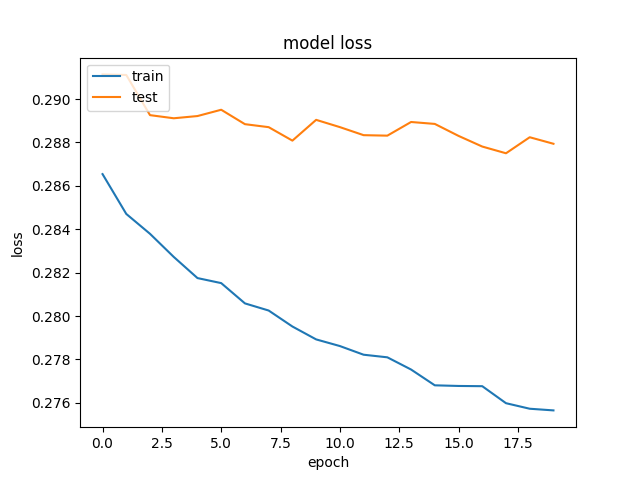
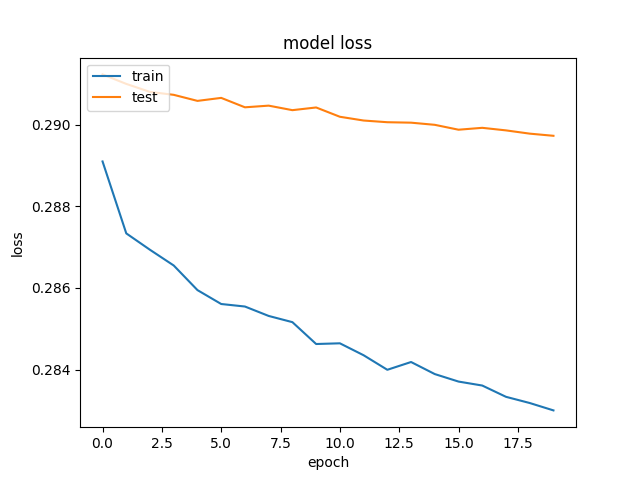
test

diff --git a/Siamese_Model.py b/Siamese_Model.py
@@ -30,7 +30,7 @@ G = args["gpus"]
 NUM_EPOCHS = 20
 INIT_LR = 1e-3
 lr_decay = 0
-training_batch_size = 32
+training_batch_size = 256
 # samples_per_checkpoint = 1000
 validation_split = 0.005
 data_percent = 1
